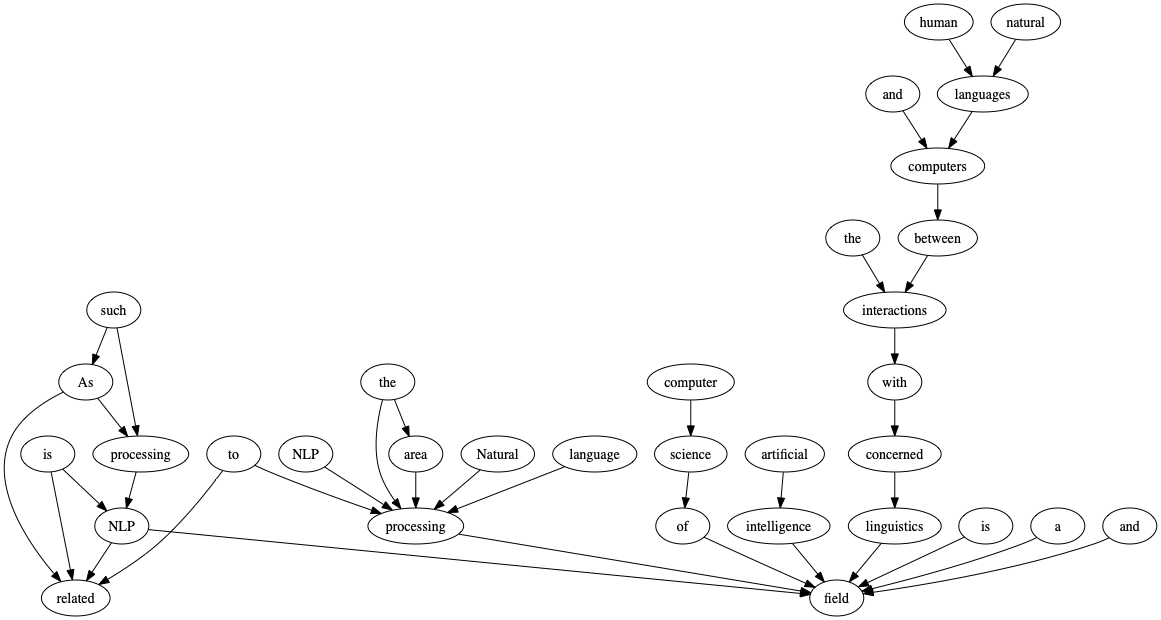
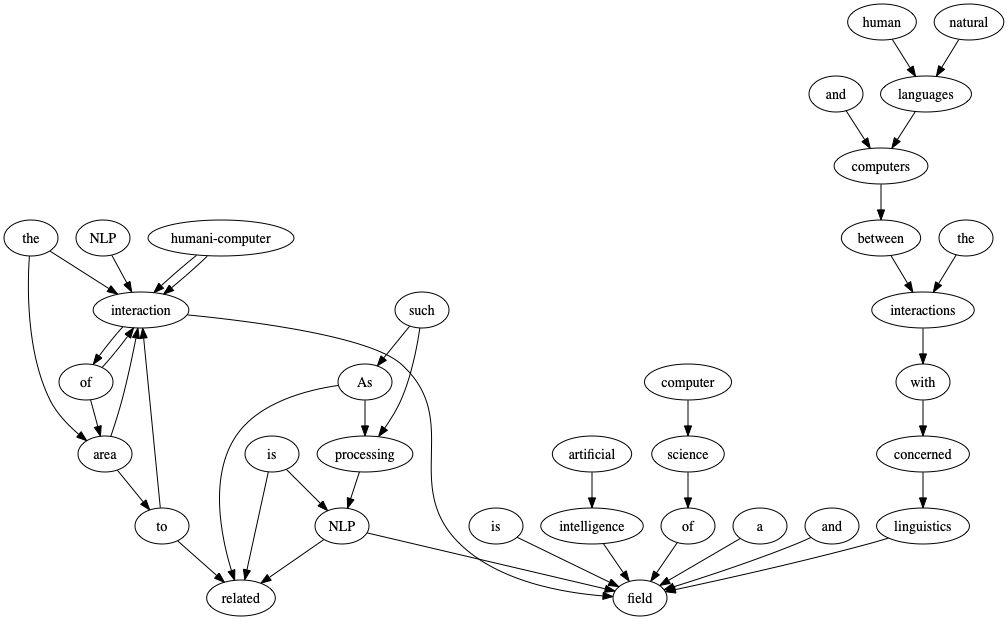
fix chapter6

diff --git a/chapter6/nlp59.py b/chapter6/nlp59.py
@@ -1,5 +1,6 @@
 '''59. S式の解析
-Stanford Core NLPの句構造解析の結果（S式）を読み込み，文中のすべての名詞句（NP）を表示せよ．入れ子になっている名詞句もすべて表示すること．
+Stanford Core NLPの句構造解析の結果（S式）を読み込み，文中のすべての名詞句（NP）を表示せよ．
+入れ子になっている名詞句もすべて表示すること．
 '''
 
 import re
@@ -8,112 +9,69 @@ sentence_pattern = r'<sentence id="\d+">([\s\S]*?)</sentence>'
 token_pattern = r'<token id="\d+">\s*?'\
                 + r'<word>(.*?)</word>[\s\S]*?</token>'
 parse_pattern = r'<parse>([\s\S]*?) </parse>'
-'''
-S式の構造
-ROOT, document, sentences, sentence, parse
-(ROOT 
-    (S 
-        (NP 
-            (NP 
-                (NN History) 
-                (DT The) 
-                (NN history)
-            ) 
-            (PP 
-                (IN of) 
-                (NP 
-                    (NN NLP)
-                )
-            )
-        ) 
-        (ADVP
-            (RB generally)
-        ) 
-        (VP 
-            (VBZ starts) 
-            (PP 
-                (IN in) 
-                (NP 
-                    (DT the) 
-                    (CD 1950s)
-                )
-            ) 
-            (, ,) 
-            (SBAR 
-                (IN although) 
-                (S 
-                    (NP 
-                        (NN work)
-                    ) 
-                    (VP 
-                        (MD can) 
-                        (VP 
-                            (VB be) 
-                            (VP 
-                                (VBN found) 
-                                (PP 
-                                    (IN from) 
-                                    (NP 
-                                        (JJR earlier) 
-                                        (NNS periods)
-                                    )
-                                )
-                            )
-                        )
-                    )
-                )
-            )
-        ) 
-        (. .)
-    )
-)
-'''
-'''
-nodeを全て定義する．再帰処理でvalueがNPの子ノードを探す．
-見つけたらプリントする．
-'''
 
 
 class Node():
-    def __init__(self, child, value):
-        self.child = child
-        self.value = value
+    def __init__(self, childlen, key):
+        self.childlen = childlen
+        self.key = key
 
-    def get_values(self):
-        if self.child == -1:
-            return self.value
-        return self.get_values(self.child)
+    def search_keys(self):
+        if self.child == []:
+            return self.key
+        return self.get_keys(self.childlen)
+
+    def values(self):
+        if isinstance(self.childlen, list):
+            for child in self.childlen:
+                child.values()
+        else:
+            print(self.childlen, end=' ')
+
+    def search_key(self, key):
+        if self.key == key:
+            self.values()
+            print()
+        if isinstance(self.childlen, list):
+            for child in self.childlen:
+                child.search_key(key)
 
 
-def s_paser(text):
-    if text[0] != '(' or text[-1] != ')':
-        print('parse error', text[0], text[-1])
-        return -1
-
+def get_key(text):
+    # 形は1パターン
+    # (key value)
     value = ''
-    childlen = []
-    child_head = -1
-    for index, t in enumerate(text[1:], 1):  # valueの抽出
-        if t == '(' or t == ')':
-            child_head = index
-            break
-        value += t
+    text = re.findall(r'(.*?) (.*)', text[1:-1])[0]
+    key = text[0]
+    value = text[1]
+    return key, value
 
-    if child_head == -1:  # 子がいないとき
-        return Node(childlen, value)
 
+def get_childlen(text):
+    # 形は2パターン
+    # 1. (child)(child)
+    # 2. value
+    if text[0] != '(':  # 子がいないとき
+        return text
+
+    head = 0
     count = 0
-    for index, t in enumerate(text[child_head:], child_head):
+    childlen = []
+    for index, t in enumerate(text):
         if t == '(':
             count += 1
         elif t == ')':
             count -= 1
         if count == 0:  # 子が閉じたとき
-            child = text[child_head:index]
-            child = s_paser(child)
-            child_head = index
+            child = text[head:index+1]
+            if index < head:  # 2つ飛ばす
+                continue
+            key, value = get_key(child)
+            c_childlen = get_childlen(value)
+            child = Node(c_childlen, key)
+            head = index + 2
             childlen.append(child)
-    return Node(childlen, value)
+    return childlen
 
 
 with open('../data/nlp.txt.xml', 'r') as f:
@@ -122,6 +80,31 @@ with open('../data/nlp.txt.xml', 'r') as f:
 for sentence in re.findall(sentence_pattern, text):
     tokens = re.findall(token_pattern, sentence)
     pares = re.findall(parse_pattern, sentence)[0]
-    pares = s_paser(pares)
-    # print(pares.child, end='')
-    print('====')
+
+    key, value = get_key(pares)
+    childlen = get_childlen(value)
+    node = Node(childlen, key)
+    node.search_key('NP')
+
+
+'''
+(ROOT (S (PP (NP (JJ Natural) (NN language) (NN processing)) (IN From) (NP (NNP Wikipedia))) (, ,) (NP (NP (DT the) (JJ free) (NN encyclopedia) (JJ Natural) (NN language) (NN processing)) (PRN (-LRB- -LRB-) (NP (NN NLP)) (-RRB- -RRB-))) (VP (VBZ is) (NP (NP (NP (DT a) (NN field)) (PP (IN of) (NP (NN computer) (NN science)))) (, ,) (NP (JJ artificial) (NN intelligence)) (, ,) (CC and) (NP (NP (NNS linguistics)) (VP (VBN concerned) (PP (IN with) (NP (NP (DT the) (NNS interactions)) (PP (IN between) (NP (NP (NNS computers)) (CC and) (NP (JJ human) (-LRB- -LRB-) (JJ natural) (-RRB- -RRB-) (NNS languages)))))))))) (. .)))
+
+Natural language processing
+Wikipedia
+the free encyclopedia Natural language processing -LRB- NLP -RRB-
+the free encyclopedia Natural language processing
+NLP
+a field of computer science , artificial intelligence , and linguistics concerned with the interactions between computers and human -LRB- natural -RRB- languages
+a field of computer science
+a field
+computer science
+artificial intelligence
+linguistics concerned with the interactions between computers and human -LRB- natural -RRB- languages
+linguistics
+the interactions between computers and human -LRB- natural -RRB- languages
+the interactions
+computers and human -LRB- natural -RRB- languages
+computers
+human -LRB- natural -RRB- languages
+'''

diff --git a/chapter6/nlp58.py b/chapter6/nlp58.py
@@ -24,39 +24,39 @@ class Dependent():
 
 
 sentence_pattern = r'<sentence id="\d+">([\s\S]*?)</sentence>'
-token_pattern = r'<token id="\d+">\s*?'\
-                + r'<word>(.*?)</word>[\s\S]*?</token>'
 deps_pattern = r'<dependencies type="basic-dependencies">[\s\S]*?</dependencies>'
 dep_pattern = r'\<dep type="(.*?)">[\s\S]*?'\
               + r'<governor idx="(\d+)">(.*?)</governor>\s*?'\
               + r'<dependent idx="(\d+)">(.*?)</dependent>\s*?'\
               + r'</dep>'
 
+'''
+1. nsubj関係とdobj関係を書き出す
+2. 親が一致したら出力
+'''
 
 with open('../data/nlp.txt.xml', 'r') as f:
     text = f.read()
 
 
 for sentence in re.findall(sentence_pattern, text):
-    tokens = re.findall(token_pattern, sentence)
     dep = re.findall(deps_pattern, sentence)
     if len(dep) < 1:
         continue
-    deps = []
+
+    subjects = []   # 主語　(nsubj関係の子を持つdepの集合)
+    objects = []    # 目的語  (dobj関係の子を持つdepの集合)
     for dep in re.findall(dep_pattern, dep[0]):
         dep = Dependent(dep[0], dep[1], dep[2], dep[3], dep[4])
-        deps.append(dep)
-    subjects = []
-    objects = []
-    for dep in deps:
         if dep.type == 'nsubj':
             subjects.append(dep)
         elif dep.type == 'dobj':
             objects.append(dep)
+
     for subject in subjects:
         for obj in objects:
             if subject.gov_id == obj.gov_id:
-                predicate = subject.gov
+                predicate = subject.gov     # 述語
                 print('%s\t%s\t%s' % (subject.dep, predicate, obj.dep))
 
 '''

diff --git a/chapter6/nlp57.py b/chapter6/nlp57.py
@@ -16,11 +16,11 @@ dep_pattern = r'\<dep [\s\S]*?'\
               + r'<dependent idx="(\d+)">(.*?)</dependent>\s*?'\
               + r'</dep>'
 graph = pydot.Dot(graph_type='digraph')
+sentences = {}
 
 with open('../data/nlptest.txt.xml', 'r') as f:
     text = f.read()
 
-sentences = {}
 for sentence in re.findall(sentence_pattern, text):
     sentence_id = sentence[0]
     sentence = sentence[1]
@@ -28,18 +28,17 @@ for sentence in re.findall(sentence_pattern, text):
     if len(deps) < 1:
         continue
     for dep in re.findall(dep_pattern, deps[0]):
-        if dep[0] == '0':
+        if dep[0] == '0':  # ROOTの場合
             continue
-        print(dep)
-        child = dep[0]
-        child_surface = dep[1]
-        parent = dep[2]
-        parent_surface = dep[3]
+        child_id = dep[0]
+        child = dep[1]
+        parent_id = dep[2]
+        parent = dep[3]
 
-        node = pydot.Node(parent, label=parent_surface)  # add parent node
+        node = pydot.Node(parent_id, label=parent)  # add parent node
         graph.add_node(node)
-        node = pydot.Node(child, label=child_surface)    # add child node
+        node = pydot.Node(child_id, label=child)    # add child node
         graph.add_node(node)
-        edge = pydot.Edge(parent, child)
+        edge = pydot.Edge(parent_id, child_id)
         graph.add_edge(edge)
         graph.write('../results/nlp57-%s.png' % (sentence_id), format="png")

diff --git a/chapter6/nlp55.py b/chapter6/nlp55.py
@@ -1,36 +1,39 @@
+'''55. 固有表現抽出
+入力文中の人名をすべて抜き出せ．
+'''
 import re
 with open('../data/nlp.txt.xml', 'r') as f:
     text = f.read()
 
 
 class Token():
-    def __init__(self, word, lemma, ner):
+    def __init__(self, word, ner):
         self.word = word
-        self.lemma = lemma
         self.ner = ner
 
 
 tokens = []
 for token in re.findall(r'<token id="\d+">([\s\S]*?)</token>', text):
-    pattern = r'<word>(.*?)</word>\s*?'\
-              + r'<lemma>(.*?)</lemma>[\s\S]*?'\
+    pattern = r'<word>(.*?)</word>[\s\S]*?'\
               + r'<NER>(.*?)</NER>'
     data = re.findall(pattern, token)[0]
-    token = Token(data[0], data[1], data[2])
+    token = Token(data[0], data[1])
     if token.ner == 'PERSON':
         print(token.word)
     tokens.append(token)
 
 
 '''
-Natural	natural	Natural
-language	language	language
-processing	processing	processing
-From	from	From
-Wikipedia	Wikipedia	Wikipedia
-,	,	,
-the	the	the
-free	free	free
-encyclopedia	encyclopedia	encyclopedia
-Natural	natural	Natural
+Alan
+Turing
+ELIZA
+Joseph
+Weizenbaum
+Wilensky
+Meehan
+Lehnert
+Carbonell
+Lehnert
+Jabberwacky
+Moore
 '''

diff --git a/chapter6/nlp54.py b/chapter6/nlp54.py
@@ -1,3 +1,6 @@
+'''54. 品詞タグ付け
+Stanford Core NLPの解析結果XMLを読み込み，単語，レンマ，品詞をタブ区切り形式で出力せよ．
+'''
 import re
 with open('../data/nlp.txt.xml', 'r') as f:
     text = f.read()
@@ -9,6 +12,12 @@ for token in tokens[:10]:
               + r'<POS>(.*?)</POS>'
     data = re.findall(pattern, token)[0]
     print('%s\t%s\t%s' % (data[0], data[1], data[0]))
+
+
+'''Stanford Core NLPの解析
+$ ./corenlp.sh -annotators tokenize,ssplit,pos,lemma,ner,coref
+  -file ~/develop/nlp100/data/nlp.txt
+'''
 
 '''
 Natural	natural	Natural

diff --git a/chapter6/nlp53.py b/chapter6/nlp53.py
@@ -1,3 +1,7 @@
+'''53. Tokenization
+Stanford Core NLPを用い，入力テキストの解析結果をXML形式で得よ．
+また，このXMLファイルを読み込み，入力テキストを1行1単語の形式で出力せよ．
+'''
 import re
 with open('../data/nlp.txt.xml', 'r') as f:
     text = f.read()

diff --git a/chapter6/nlp51.py b/chapter6/nlp51.py
@@ -1,3 +1,7 @@
+'''51. 単語の切り出し
+空白を単語の区切りとみなし，50の出力を入力として受け取り，1行1単語の形式で出力せよ．
+ただし，文の終端では空行を出力せよ．
+'''
 from nlp50 import get_sentences
 
 

diff --git a/chapter6/nlp50.py b/chapter6/nlp50.py
@@ -1,3 +1,7 @@
+'''50. 文区切り
+(. or ; or : or ? or !) → 空白文字 → 英大文字というパターンを文の区切りと見なし，
+入力された文書を1行1文の形式で出力せよ．
+'''
 import re
 filename = '../data/nlp.txt'
 
